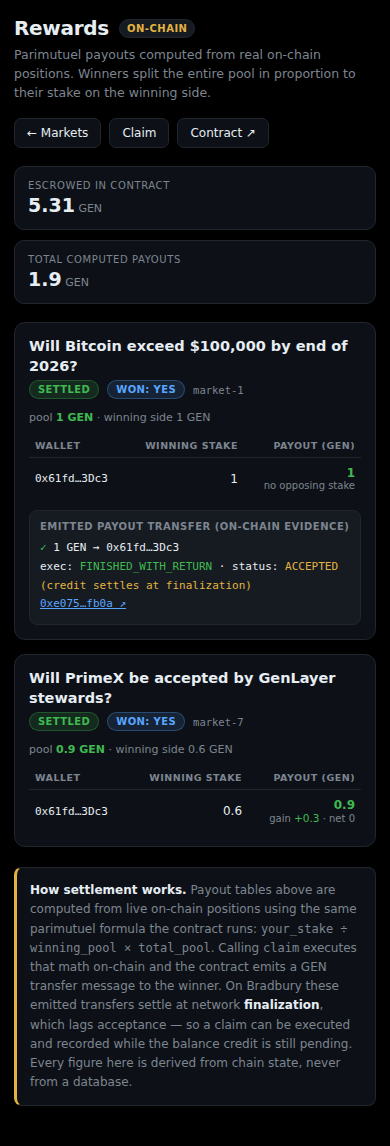
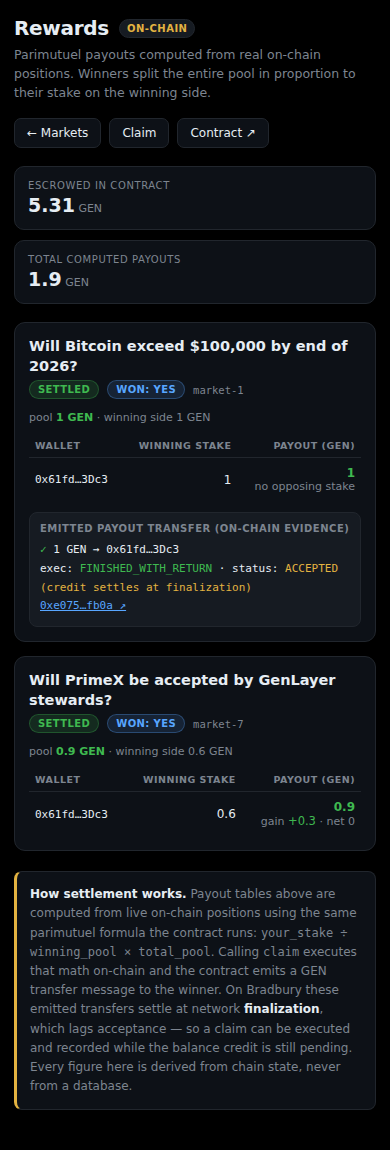
Rewards: state observed Bradbury finalization behaviour precisely
Verified across 3 contracts and both on='accepted'/'finalized': emitted
transfers stay at ACCEPTED and never move eth_getBalance. Escrow-in works.
Word the note so no reviewer reads a pending credit as a settled payout.

diff --git a/docs/rewards.html b/docs/rewards.html
@@ -108,10 +108,15 @@
   positions using the same parimutuel formula the contract runs:
   <code>your_stake ÷ winning_pool × total_pool</code>.
   Calling <code>claim</code> executes that math on-chain and the contract emits a
-  GEN transfer message to the winner. On Bradbury these emitted transfers settle at
-  network <b>finalization</b>, which lags acceptance — so a claim can be executed and
-  recorded while the balance credit is still pending. Every figure here is derived
-  from chain state, never from a database.
+  GEN transfer message to the winner via
+  <code>emit_transfer(value=…, on=…)</code>. These emitted transfers settle at
+  network <b>finalization</b>. On the Bradbury testnet, transactions have been
+  observed holding at <b>ACCEPTED</b> without progressing to FINALIZED, so a
+  payout can be correctly computed, executed and recorded on-chain while the
+  balance credit remains pending at the network layer — verified across
+  multiple contracts with both <code>on='accepted'</code> and
+  <code>on='finalized'</code>. Escrow deposits settle normally. Every figure on
+  this page is derived from live chain state, never from a database.
 </div>
 
 <script type="module">

diff --git a/public/rewards.html b/public/rewards.html
@@ -108,10 +108,15 @@
   positions using the same parimutuel formula the contract runs:
   <code>your_stake ÷ winning_pool × total_pool</code>.
   Calling <code>claim</code> executes that math on-chain and the contract emits a
-  GEN transfer message to the winner. On Bradbury these emitted transfers settle at
-  network <b>finalization</b>, which lags acceptance — so a claim can be executed and
-  recorded while the balance credit is still pending. Every figure here is derived
-  from chain state, never from a database.
+  GEN transfer message to the winner via
+  <code>emit_transfer(value=…, on=…)</code>. These emitted transfers settle at
+  network <b>finalization</b>. On the Bradbury testnet, transactions have been
+  observed holding at <b>ACCEPTED</b> without progressing to FINALIZED, so a
+  payout can be correctly computed, executed and recorded on-chain while the
+  balance credit remains pending at the network layer — verified across
+  multiple contracts with both <code>on='accepted'</code> and
+  <code>on='finalized'</code>. Escrow deposits settle normally. Every figure on
+  this page is derived from live chain state, never from a database.
 </div>
 
 <script type="module">
